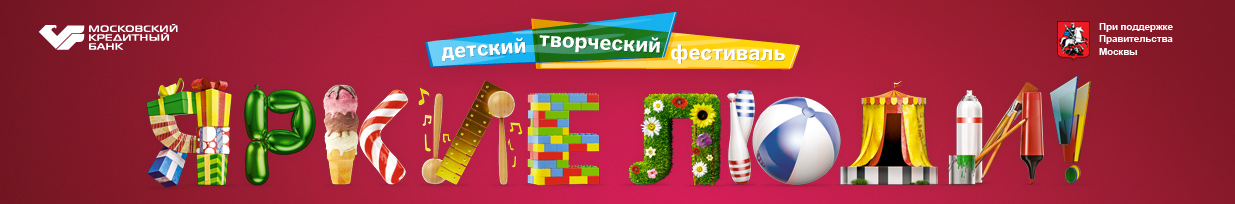
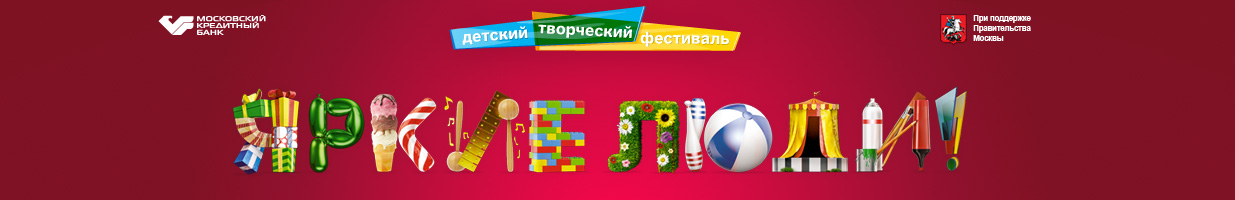
header cap

diff --git a/app/assets/stylesheets/style.css b/app/assets/stylesheets/style.css
@@ -39,8 +39,10 @@ h1 { font-size:22px; color:#4f4f4f; font-family:Futura}
 
 .header_wrapper { margin:auto; position:relative; min-width:960px; padding:25px 0px 15px 0px}
 
-#header .header_flash_wrapper  { background:url(/assets/header_cap.jpg) no-repeat center top; height:204px;}
+#header .header_flash_wrapper  { background:url(/assets/header_bg.jpg) no-repeat center top; height:204px;}
 #header .header_flash_wrapper a { display:block; height:204px}
+
+#header .header_flash_wrapper .cap { background:url(/assets/header_cap.jpg) no-repeat center top; height:204px;}
 
 #main_page .color_line_left { background:url(/assets/color_line.jpg) repeat-y left 100px}
 #main_page .color_line_right { background:url(/assets/color_line.jpg) repeat-y right}
@@ -283,6 +285,10 @@ h1 { font-size:22px; color:#4f4f4f; font-family:Futura}
 .workshop_list .sorter_wraper { border-top:1px solid #dbdbdb; } 
 .workshop_list .sorter_wraper .cell { float:left; padding:10px 20px; border-right:1px solid #dbdbdb; }
 .workshop_list .filter_wraper ul { float:left; }
+
+.workshop_list .cell select { height: 22px;
+    line-height: 28px;
+    width: 100%; font-size:16px;}
 
 .entertainment_list .sidebar { float:left; width:280px}
 .entertainment_list .filter_wraper { behavior: url(border-radius.htc); -moz-border-radius:8px; border-radius:8px; -webkit-border-radius:8px; -khtml-border-radius:8px; border:1px solid #dbdbdb; padding:16px;}
@@ -570,7 +576,7 @@ span.sim_check.active { background-position:0px 0px; }
 .profile_comment li .name a { font-size:16px; color:#000000; vertical-align:0}
 .profile_comment li .desc { padding-top:5px;}
 
-.profile_comment .title { font-size:20px; font-family:Futura;}
+.profile_title { font-size:20px; font-family:Futura; padding:15px 0px}
 
 
 
@@ -585,7 +591,7 @@ span.sim_check.active { background-position:0px 0px; }
 .profile_magazine .name { padding-bottom:8px; line-height:1.3}
 .profile_magazine .date { font-size:12px; font-weight:bold; }
 
-.profile_magazine .close { background:url(/assets/close_red_big.png) no-repeat 0px 0px; width:32px; height:32px; display:none; position:absolute; z-index:10; right:-10px; top:-10px;}
+.profile_magazine .close { background:url(/assets/close_red_big.png) no-repeat 0px 0px; width:32px; height:32px; display:none; overflow:hidden; text-indent:-1000px; position:absolute; z-index:10; right:-10px; top:-10px;}
 .profile_magazine:hover .close { display:block}
 
 
@@ -743,6 +749,8 @@ span.sim_check.active { background-position:0px 0px; }
 .personality_slider .slides_container .info { position:absolute; bottom:0; left:0; background:url(/assets/slider_control_bg.png); padding:5px 50px 5px 10px; width:460px; color:#e7e5e5; font-size:12px}
 .personality_slider .slides_container .info .name { color:#fff; font-weight:bold }
 
+.personality_slider .slides_container .info .short_desc { overflow:hidden; height:38px;}
+
 .personality_slider .slides_container .info .comment_count { text-align:center; color:#fff; font-weight:bold; line-height:22px; position:absolute; right:10px; top:24px; width:34px; height:30px; background:url(/assets/comment_count.png) no-repeat;}
 
 .personality_slider .prev, .personality_slider .next { display:block; position:absolute; z-index:15; top:120px}
@@ -759,15 +767,16 @@ span.sim_check.active { background-position:0px 0px; }
 .personality_preview .personality_wrapper { width:160px; position:relative; margin:auto; text-align:center}
 
 .personality_preview .cat { font-size:18px; font-family:Futura; color:#f3452e}
-.personality_preview .mark { background:url(/assets/exp_mark.png) no-repeat; display:block; width:19px; height:24px; text-align:center; line-height:24px; padding:0px 10px 0px 5px; color:#fff; position:absolute; top:70px; z-index: 10}
-.personality_preview .thumb { position:relative; float:left; width:120px; height:120px; overflow:hidden; margin-left:20px}
-.personality_preview .thumb .mask { width:120px; height:120px; background:url(/assets/rukov_mask.png) no-repeat center center; display:block; position:absolute}
+.personality_preview .mark { background:url(/assets/exp_mark.png) no-repeat; display:block; width:19px; height:24px; text-align:center; line-height:24px; padding:0px 10px 0px 5px; color:#fff; position:absolute; top:80px; z-index: 10}
+.personality_preview .thumb { margin:10px 0; -moz-border-radius:6px; border-radius:6px; -webkit-border-radius:6px; -khtml-border-radius:6px; position:relative; float:left; /*width:120px; height:120px; margin-left:20px;*/ width:160px; height:100px; overflow:hidden; }
+.personality_preview .thumb img { border-radius:6px; width:160px; height:100px; }
+.personality_preview .thumb .mask { width:120px; height:120px; background:url(/assets/rukov_mask.png) no-repeat center center; display:none; position:absolute}
 .personality_preview .name { font-weight:bold; color:#007ba4; font-size:15px; display:block; }
 .personality_preview .name a { font-weight:bold; color:#007ba4; font-size:15px; text-decoration:none }
 .personality_preview .info { color:#544d4d;display:block; }
 .personality_preview .date { color:#74746f; font-size:12px; display:block; font-weight:bold; }
 
-.personality_preview.exp .thumb { -moz-border-radius:60px; border-radius:60px; -webkit-border-radius:60px; -khtml-border-radius:60px;}
+.personality_preview.exp .thumb { margin-left:20px; -moz-border-radius:60px; border-radius:60px; -webkit-border-radius:60px; -khtml-border-radius:60px; width:120px; height:120px;}
 .personality_preview.exp .thumb img { border-radius:60px; width:120px; height:120px;}
 
 
